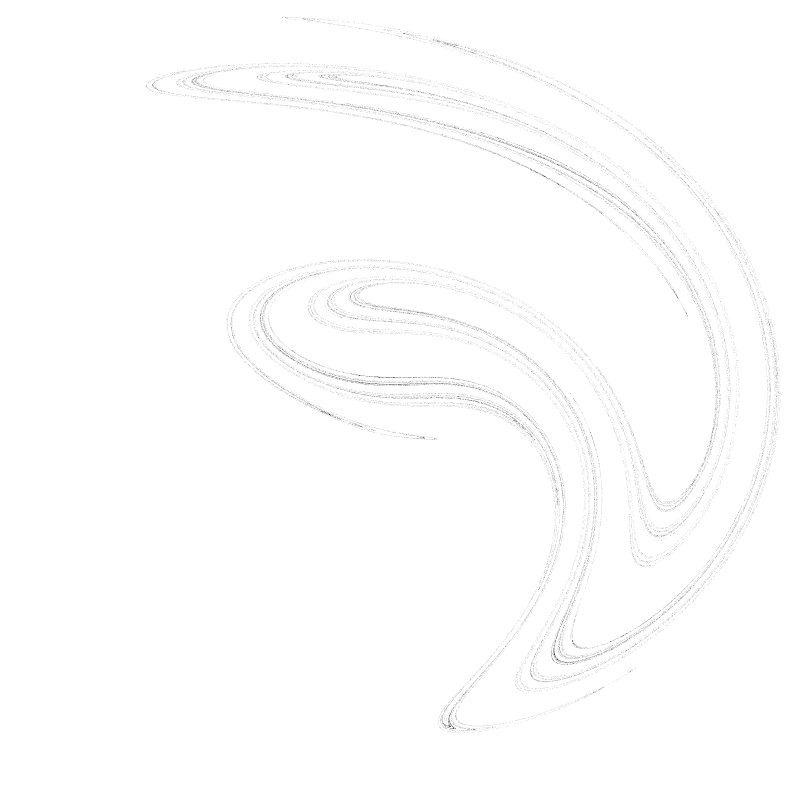
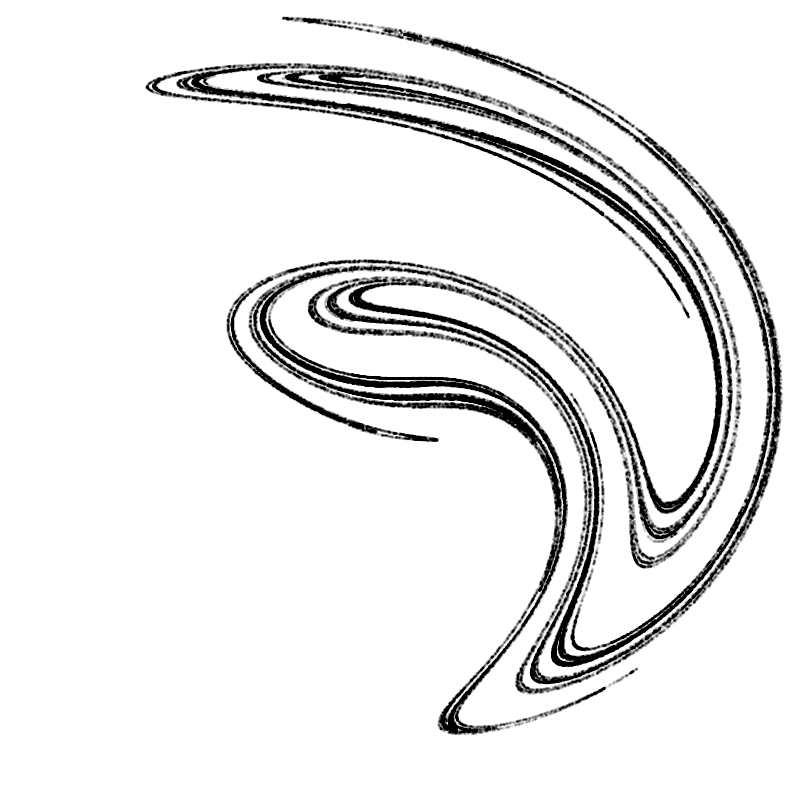
add alpha scale (for twitter)

Changed region(s): [[0.1875, 0.0312, 1.0, 0.9375], [0.3438, 0.0, 0.4375, 0.0312]]

diff --git a/num_ana/Second_DE/de_rust/src/main.rs b/num_ana/Second_DE/de_rust/src/main.rs
@@ -26,20 +26,27 @@ fn main() {
     let mut p_res = Vec::new(); 
     func_loop(init, loop_count, h,&mut q_res,&mut p_res);
 
-    let mut fg = Figure::new();
-    fg.axes2d()
-    .points(&q_res, &p_res, &[Color("blue")]);
-    println!("{:?}",p_res);
+    //let mut fg = Figure::new();
+    //fg.axes2d()
+    //.points(&q_res, &p_res, &[Color("blue")]);
 
-    fg.set_terminal("png", "test.png");
-    fg.show();
+    //fg.set_terminal("png", "test.png");
+    //fg.show();
     let mut calc_buf = vec![vec![0 as i32; imgy as usize]; imgx as usize];
 
     for i in 0..loop_count{
         let x = ((q_res[i]-2.0)/scalex) as i32;
         let y = ((p_res[i]+8.0)/scaley) as i32;
-        if 0<=x &&x <imgx as i32 && 0<=y && y<imgy as i32 {
-            calc_buf[x as usize][y as usize] += 1;
+        if 0<=x &&x+2 <imgx as i32 && 0<=y && y+2<imgy as i32 {
+            calc_buf[0+x as usize][y as usize] += 1;
+            calc_buf[1+x as usize][y as usize] += 2;
+            calc_buf[2+x as usize][y as usize] += 1;
+            calc_buf[0+x as usize][1+y as usize] += 2;
+            calc_buf[1+x as usize][1+y as usize] += 3;
+            calc_buf[2+x as usize][1+y as usize] += 2;
+            calc_buf[0+x as usize][2+y as usize] += 1;
+            calc_buf[1+x as usize][2+y as usize] += 2;
+            calc_buf[2+x as usize][2+y as usize] += 1;
         }
     }
     let mut max = 0;
@@ -50,13 +57,17 @@ fn main() {
     }
     println!("{}",max);
     for (x,y,pixel) in imgbuf.enumerate_pixels_mut(){
-        let normal = (1<<8) * calc_buf[x as usize][y as usize] /max ; 
-        *pixel = image::Luma([255 - normal as u8]) ;
+        let normal = std::cmp::min(255,(1<<11) * calc_buf[x as usize][y as usize] /max) ; 
+        
+        *pixel = image::LumaA([255 - normal as u8,255]) ;
+        if x==0 && y==0 {
+            *pixel = image::LumaA([255 - normal as u8,0]) ;
+        }
     }
 
     let fout = &mut File::create("testimg.png").unwrap();
 
-    image::ImageLuma8(imgbuf).save(fout, image::PNG).unwrap();
+    image::ImageLumaA8(imgbuf).save(fout, image::PNG).unwrap();
 }
 fn func_loop(init:(f64,f64),lp:usize,h:f64,q_res: &mut std::vec::Vec<f64> ,p_res :&mut  std::vec::Vec<f64>){
     let (mut q,mut p) = init;
